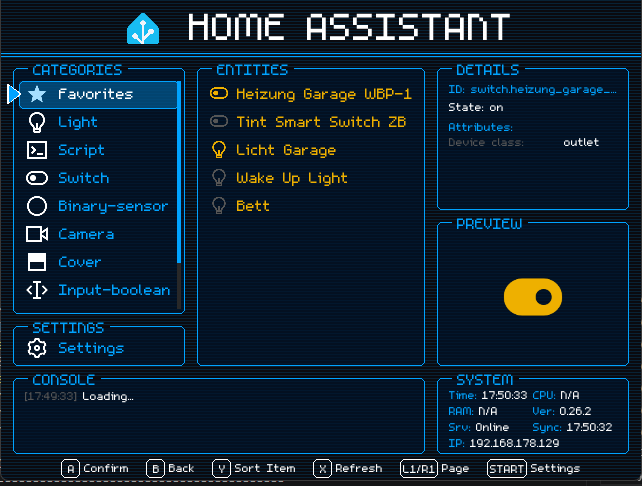
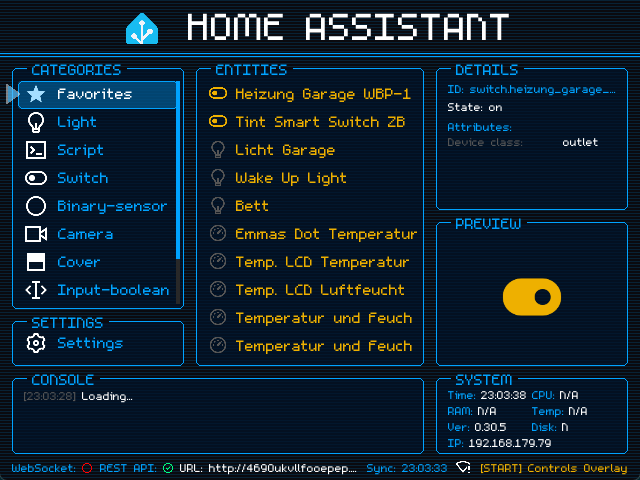
Release v0.30.5
### Added
- **UI:** Enhanced sensor graphs with an X-axis showing time (HH:MM) and a Y-axis with horizontal grid lines and value labels.

Changed region(s): [[0.0, 0.0312, 1.0, 1.0], [0.7812, 0.5625, 0.875, 0.6562], [0.875, 0.2812, 0.9375, 0.3125]]

diff --git a/tools/capture_live_screenshots.py b/tools/capture_live_screenshots.py
@@ -1,0 +1,91 @@
+import os
+import sys
+import time
+import subprocess
+
+try:
+    import pyautogui
+    import pygetwindow as gw
+except ImportError:
+    print("Bitte installiere die benötigten Module: pip install pyautogui pygetwindow Pillow pyscreeze")
+    sys.exit(1)
+
+# --- Konfiguration ---
+OUTPUT_DIR = os.path.join(os.path.dirname(__file__), "..", "screenshots")
+CONFIG_SRC = os.path.join(os.path.dirname(__file__), "..", "config.json")
+APP_SCRIPT = os.path.join(os.path.dirname(__file__), "ha_sdl2.py")
+APP_DIR = os.path.dirname(__file__)
+
+# Offset-Werte für Fensterrahmen (Windows)
+BORDER_LEFT = 8
+BORDER_RIGHT = 8
+BORDER_TOP = 31
+BORDER_BOTTOM = 8
+
+if not os.path.exists(OUTPUT_DIR):
+    os.makedirs(OUTPUT_DIR)
+
+def main():
+    if not os.path.exists(CONFIG_SRC):
+        print(f"Fehler: config.json nicht gefunden unter {CONFIG_SRC}")
+        return
+
+    print("Starte Anwendung...")
+    # Starte die App direkt mit der aktuellen config.json
+    process = subprocess.Popen(
+        [sys.executable, APP_SCRIPT, "--config", CONFIG_SRC],
+        cwd=APP_DIR
+    )
+
+    print("Warte 10 Sekunden für den Start und ersten Verbindungsaufbau...")
+    time.sleep(10)
+
+    try:
+        count = 1
+        while process.poll() is None:
+            screenshot_path = os.path.join(OUTPUT_DIR, f"live_screenshot_{count:03d}.png")
+            
+            # Finde das Fenster
+            app_window = None
+            for title in gw.getAllTitles():
+                if "Home Assistant" in title or "HA Retro" in title:
+                    app_window = gw.getWindowsWithTitle(title)[0]
+                    break
+            
+            if app_window:
+                try:
+                    app_window.activate() # Versuche, das Fenster in den Vordergrund zu holen
+                    time.sleep(0.5)
+                except Exception:
+                    pass
+                
+                region = (
+                    app_window.left + BORDER_LEFT, 
+                    app_window.top + BORDER_TOP, 
+                    app_window.width - BORDER_LEFT - BORDER_RIGHT, 
+                    app_window.height - BORDER_TOP - BORDER_BOTTOM
+                )
+                pyautogui.screenshot(screenshot_path, region=region)
+                print(f"Screenshot {count} gespeichert: {screenshot_path}")
+            else:
+                print("[Warnung] Fenster nicht gefunden. Mache stattdessen einen Vollbild-Screenshot...")
+                pyautogui.screenshot(screenshot_path)
+                print(f"Vollbild-Screenshot {count} gespeichert: {screenshot_path}")
+
+            count += 1
+            print("Warte weitere 10 Sekunden...")
+            time.sleep(10)
+            
+    except KeyboardInterrupt:
+        print("\nScreenshot-Automatisierung durch Benutzer abgebrochen (Strg+C).")
+    finally:
+        print("Beende die Anwendung...")
+        if process.poll() is None:
+            process.terminate()
+            process.wait()
+
+if __name__ == "__main__":
+    print("Starte kontinuierliche Screenshot-Automatisierung...")
+    print("Die App wird gestartet und alle 10 Sekunden wird ein Screenshot erstellt.")
+    print("Abbrechen jederzeit mit Strg+C möglich.")
+    main()

diff --git a/README.md b/README.md
@@ -11,7 +11,12 @@ This project is an independent community application and is not affiliated with 
 Turn your retro handheld into a smart home command center. HA RetroConsole provides a fast, tactile, and native interface to control your Home Assistant environment without needing a browser or mobile app. It focuses on immediate control of favorites, sensors, switches, lights, scenes, and scripts via the Home Assistant REST API.
 
 <p align="center">
-  <img src="docs/img/screenshot.png" width="600" alt="HA RetroConsole UI Screenshot">
+  <img src="docs/img/screenshot.png" width="400" alt="Main View">
+  <img src="docs/img/screenshot_1.png" width="400" alt="Favorites">
+</p>
+<p align="center">
+  <img src="docs/img/screenshot_2.png" width="400" alt="Details View">
+  <img src="docs/img/screenshot_3.png" width="400" alt="Settings/Graphs">
 </p>
 
 ## Core Features